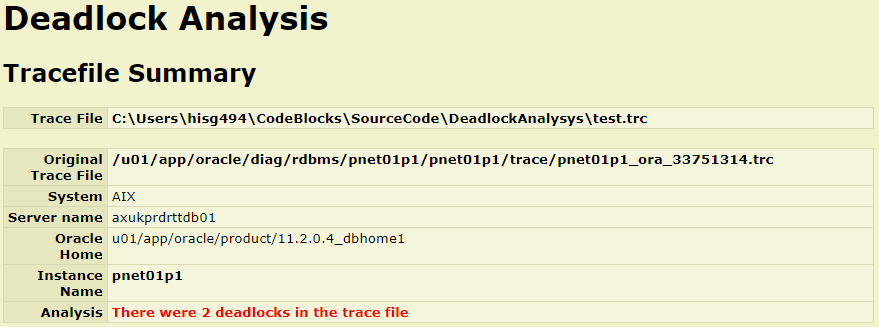
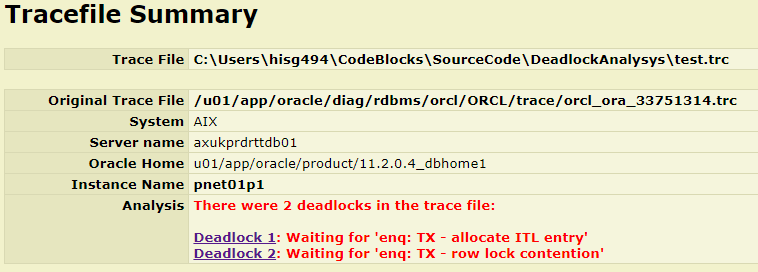
Enhancement: Added list of deadlock reasons to ttracefile summary. New changelog added too.

Changed region(s): [[0.0, 0.3235, 1.0, 0.9706], [0.0, 0.1765, 1.0, 0.2647], [0.0, 0.0, 0.3945, 0.1176]]

diff --git a/doc/DeadlockAnalysis.html b/doc/DeadlockAnalysis.html
@@ -773,7 +773,7 @@ table.CodeRay td.code>pre{padding:0}
 </div>
 <div id="footer">
 <div id="footer-text">
-Last updated 2019-01-18 15:24:11 GMT Standard Time
+Last updated 2019-01-18 15:42:16 GMT Standard Time
 </div>
 </div>
 </body>

diff --git a/src/oraDeadlockReport.cpp b/src/oraDeadlockReport.cpp
@@ -459,8 +459,18 @@ void oraDeadlockReport::traceFileDetails()
           << "\"> There "
           << (deadlockCount == 1 ? "was " : "were ") << deadlockCount << " deadlock"
           << (deadlockCount == 1 ? "" : "s")
-          << " in the trace file"
-          << "</td>\n</tr>\n";
+          << " in the trace file:<br><br>\n";
+
+    for (unsigned x = 0; x < mTraceFile->deadlockCount(); x++)     {
+        // List each deadlock reason, with a link to the deadlock.
+        *mOFS << "<a href=\"#deadlock_" << x + 1 << "\">"
+              << "Deadlock " << x + 1 << "</a>: "
+              << mTraceFile->deadLock(x)->deadlockWait()
+              << "<br>";
+    }
+
+    // Complete this row.
+    *mOFS << "</td>\n</tr>\n";
 
     // Close the table.
     *mOFS << "</table>\n" << endl;

diff --git a/src/DeadlockAnalysis.cpp b/src/DeadlockAnalysis.cpp
@@ -75,7 +75,7 @@ using std::vector;
 
 // Globals. (Yes, I know they are frowned upon - I don't actually care, ok?)
 string programName = "DeadlockAnalysis";
-string programVersion = "0.1.2";
+string programVersion = "0.1.3";
 string programAuthor = "Norman Dunbar";
 string authorEmail = "norman@dunbar-it.co.uk";
 
